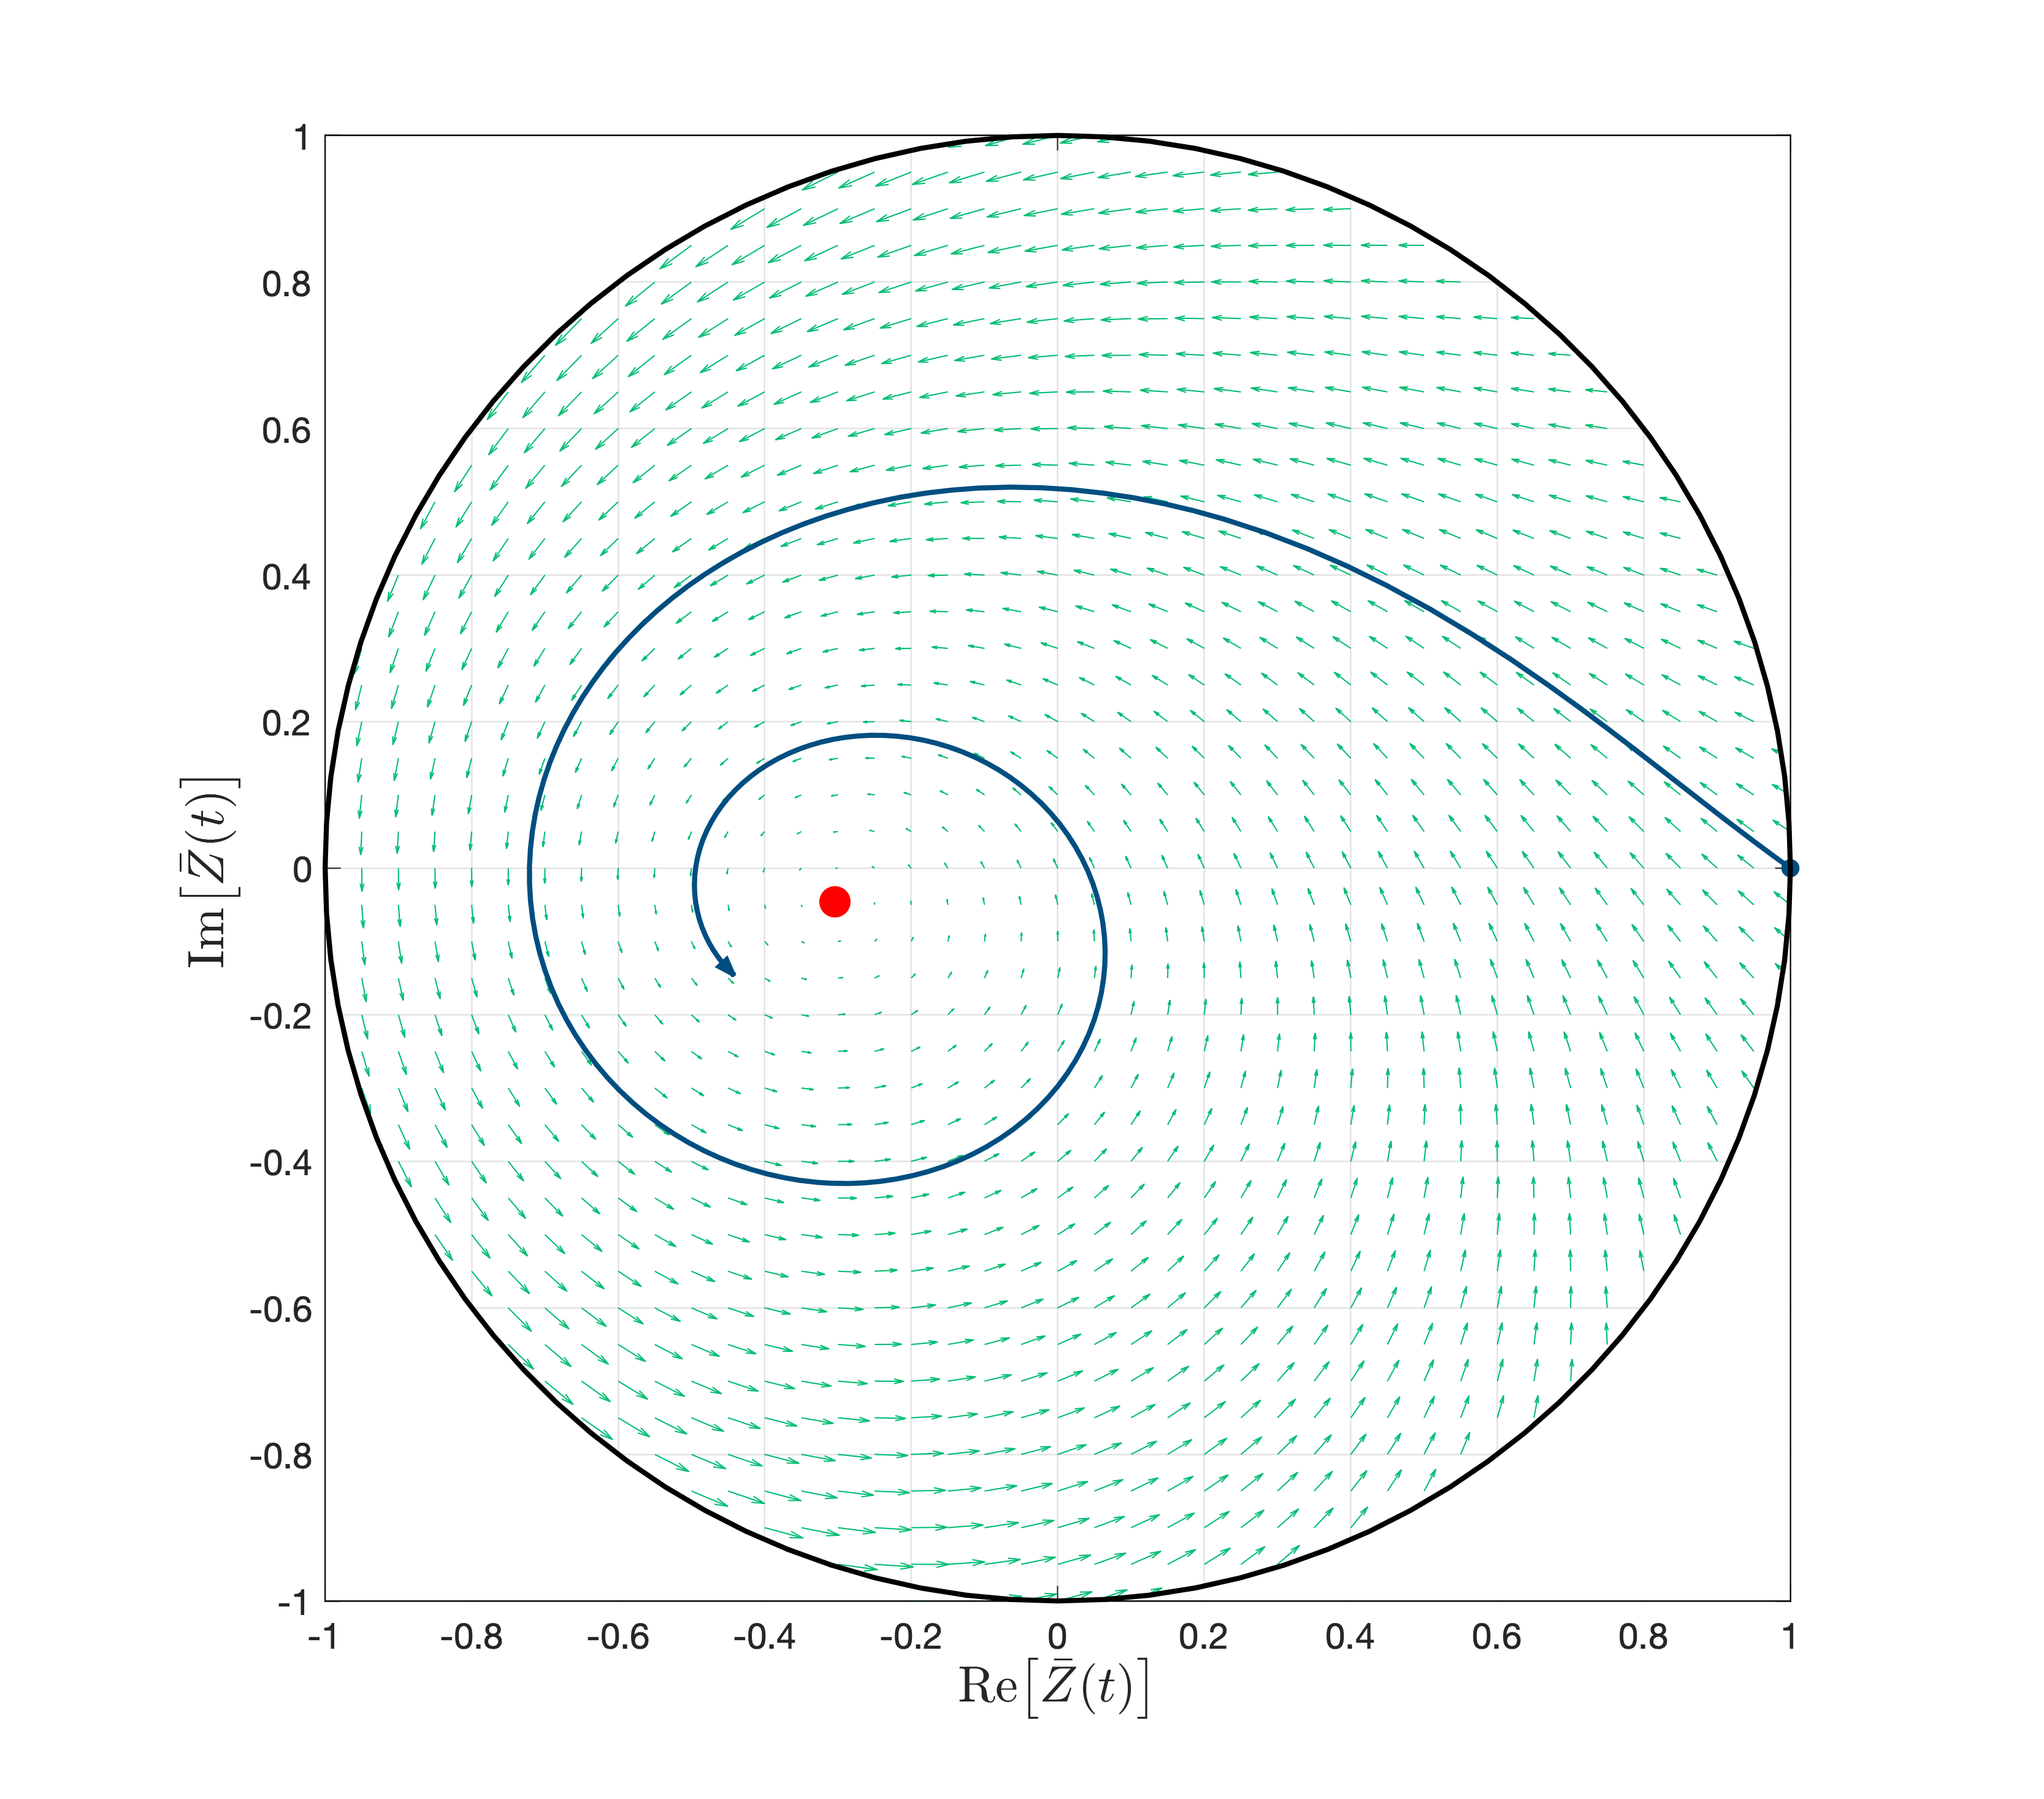
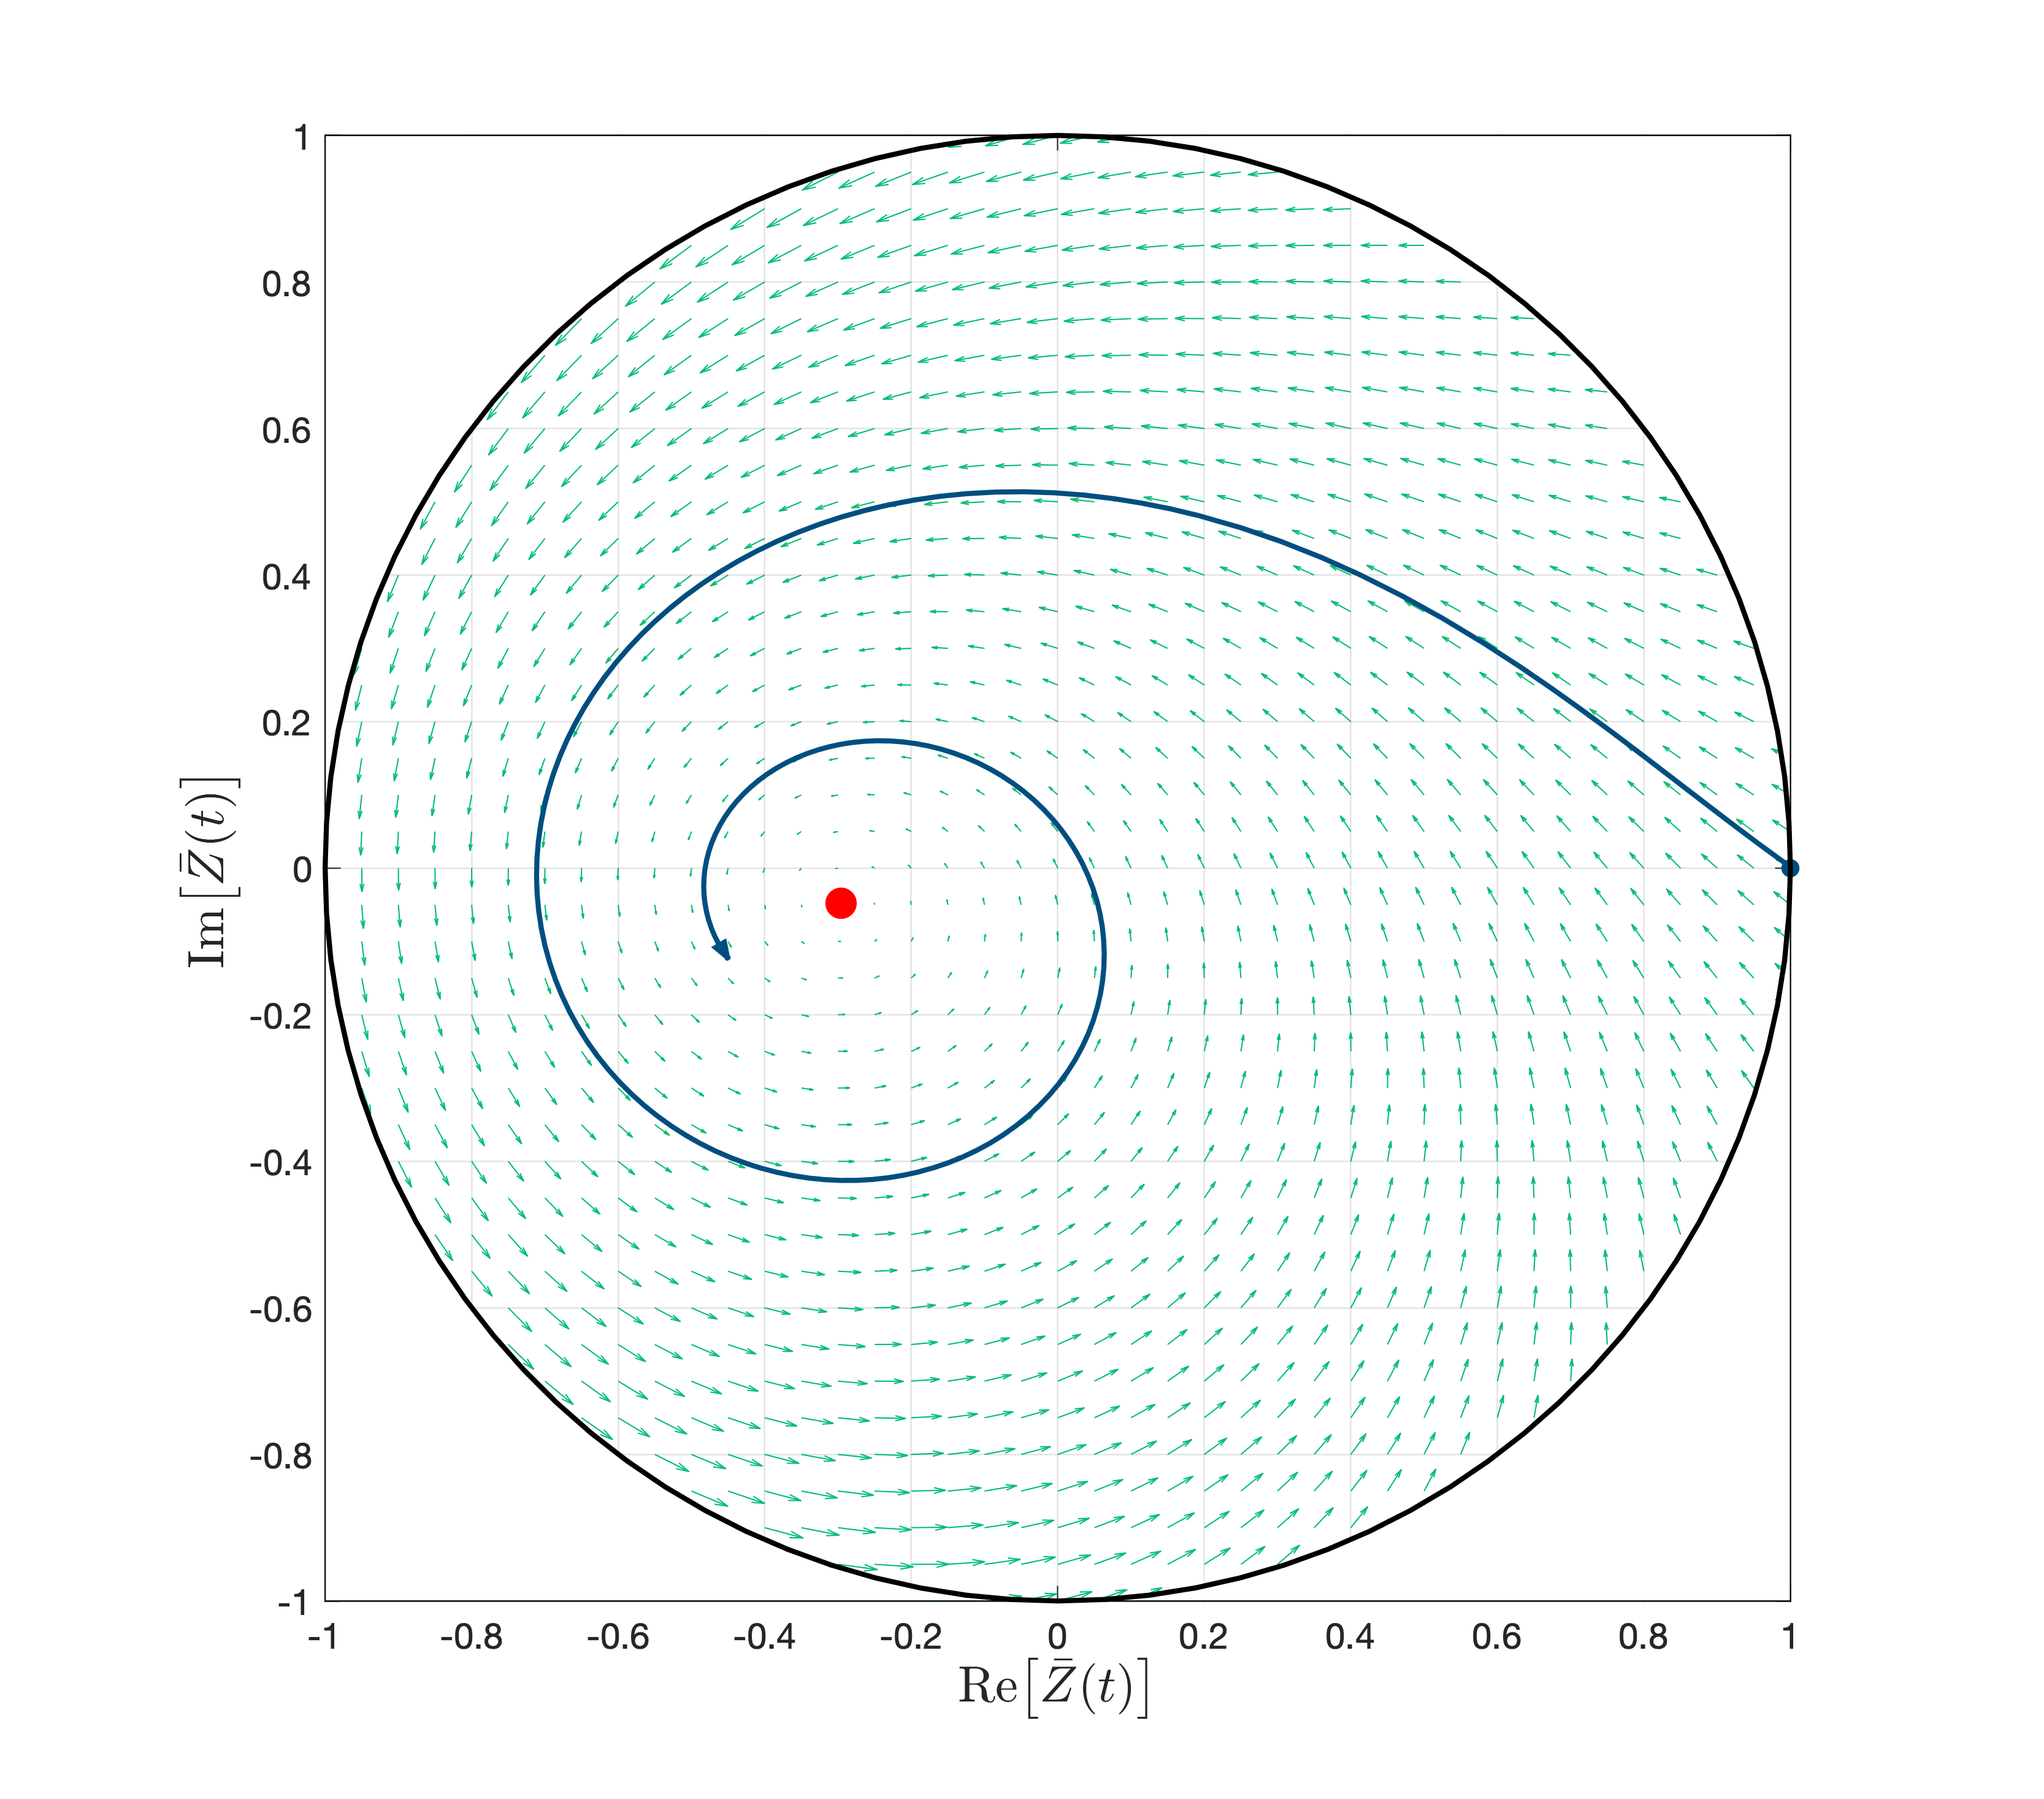
all phase space plots are ready

diff --git a/Mean Field Reductions/PhaseSpace.m b/Mean Field Reductions/PhaseSpace.m
@@ -47,7 +47,7 @@ in(1, m-l:m+l) = 1; in(end, m-l:m+l) = 1; in(m-l:m+l, 1) = 1; in(m-l:m+l, end) =
 % X1start = reshape(X1(in), 5, 5); Y1start = reshape(Y1(in), 5, 5);
 
 %% Theta neurons parameters:
-pars.N = 1000;
+pars.N = 5000;
 pars.a_n = 0.666666666666666666667;
 seed = 2; rng(seed);
 
@@ -274,7 +274,7 @@ hold off; set(gcf,'color','w'); set(gca,'FontSize',14); xlim([-1,1]); ylim([-1,1
 xlabel('Re$\left[ \bar{Z}(t)\right]$','Interpreter','latex', 'FontSize', 20)
 ylabel('Im$\left[ \bar{Z}(t)\right]$','Interpreter','latex', 'FontSize', 20)
 print(f_OARPSR, '../Figures/MFOARPSR_random.png', '-dpng', '-r300')
-% close(f_OARPSR)
+close(f_OARPSR)
 
 %% 5. OA random phase space: PSS
 pars.eta0 = 0.5; pars.delta = 0.7; pars.K = 2;
@@ -334,14 +334,14 @@ drawOAvectors(X + 1i*Y, in, p, cm(2,:));
 col = [0.4060 0.7040 0.1280] - 0.1;
 startx = [0, -0.8, -0.6, 0, 0]; starty = [-0.4, 0.2, 0.4, -1, -0.8];
 tlengths = [1.6, 0.5, 0.65, 2.6, 2.15];
-bw = -0.5;
-for i = 2:length(startx)-1
+
+for i = 1:length(startx)-1
     OAIC = ones(p.Mk,1)*(startx(i) + starty(i)*1i);
-    [~, ZOA] = OA_simulatenetwork(0, tlengths(i), OAIC, p, odeoptions);
+    [~, ZOA] = OA_simulatenetwork(0, tlengths(i), OAIC, p);
 
     scatter(startx(i), starty(i), 50, col, 'filled', 'o', 'LineWidth',2);% 'color', col);
 
-    Zplot = plot(real(ZOA), imag(ZOA), 'LineWidth', 2, 'color', col);
+    plot(real(ZOA), imag(ZOA), 'LineWidth', 2, 'color', col);
     endline = ZOA(end-3) - ZOA(end);
     endpoint = ZOA(end) + 0.02*endline/abs(endline);
     plot_arrow(real(endpoint), imag(endpoint), real(ZOA(end)), imag(ZOA(end)),'linewidth', 2, ...
@@ -349,15 +349,14 @@ for i = 2:length(startx)-1
 end
 
 % Limit cycle:
-odeoptions = odeset('RelTol', 1.0e-6); 
-[T, ZOA] = OA_simulatenetwork(0, 100, ones(p.Mk,1)*(-0.73*1i), p, odeoptions);
-plot(real(ZOA), imag(ZOA), 'LineWidth', 2, 'color', col);
-% ZOA = flip(ZOA(round(numel(T)*0.9):end,:));
-% [~, pksloc] = findpeaks(abs(ZOA),'MinPeakDistance',100);
-% idx = pksloc(1):pksloc(3);
-% plot(real(ZOA(idx)), imag(ZOA(idx)), '-', 'LineWidth', 2, 'Color', col);
-% plot_arrow(real(ZOA(end)), imag(ZOA(end)), real(ZOA(end-2)), imag(ZOA(end-2)),'linewidth', 2, ...
-%     'color', col,'facecolor', col,'edgecolor', col, 'headwidth',0.7,'headheight',3);
+[T, ZOA] = OA_simulatenetwork(0, 100, ones(p.Mk,1)*(-0.73*1i), p);
+% plot(real(ZOA), imag(ZOA), 'LineWidth', 2, 'color', col);
+ZOA = flip(ZOA(round(numel(T)*0.9):end,:));
+[~, pksloc] = findpeaks(abs(ZOA),'MinPeakDistance',100);
+idx = pksloc(1):pksloc(3);
+plot(real(ZOA(idx)), imag(ZOA(idx)), '-', 'LineWidth', 2, 'Color', col);
+plot_arrow(real(ZOA(end)), imag(ZOA(end)), real(ZOA(end-2)), imag(ZOA(end-2)),'linewidth', 2, ...
+    'color', col,'facecolor', col,'edgecolor', col, 'headwidth',0.7,'headheight',3);
 
 phasespaceplot();
 
@@ -486,12 +485,11 @@ for i = 1:length(startx)
 end
 
 % Limit cycle:
-odeoptions = odeset('RelTol', 1.0e-6); odeoptions.backwards = false;
 [T, ZOA] = OA_simulatenetwork(0, 100, ones(p.Mk,1)*(-0.2*1i), p, odeoptions);
 % Zplot = plot(real(ZOA), imag(ZOA), 'LineWidth', 2, 'color', col);
 ZOA = flip(ZOA(round(numel(T)*0.9):end,:));
 [~, pksloc] = findpeaks(abs(ZOA),'MinPeakDistance',100);
-idx = pksloc(1):pksloc(2);
+idx = pksloc(1):pksloc(3);
 plot(real(ZOA(idx)), imag(ZOA(idx)), '-', 'LineWidth', 2, 'Color', col);
 plot_arrow(real(ZOA(end)), imag(ZOA(end)), real(ZOA(end-2)), imag(ZOA(end-2)),'linewidth', 2, ...
     'color', col,'facecolor', col,'edgecolor', col, 'headwidth',0.7,'headheight',3);

diff --git a/Tests/OAtest.m b/Tests/OAtest.m
@@ -25,16 +25,17 @@ IC = - pi/2 * ones(pars.N, 1);
 %% Testing initial conditions:
 oapars = prepareOAparameters(make_lognormparameters(pars, 3, 1, 500));
 
-OAIC = zeros(1,oapars.l);
-for i = 1:oapars.l
+OAIC = zeros(1,oapars.Mk);
+for i = 1:oapars.Mk
     OAIC(i) = sum(exp(1i*IC(oapars.degrees_i == oapars.k(i)))) / (oapars.P(oapars.k(i))+1.0e-24);
 end
 ZOA = OAIC*oapars.P(oapars.k)/oapars.N
 
 %% Testing the OA approach:
-oapars = make_lognormparameters(pars, 3, 1, 500);
+oapars = make_scalefreeparameters(pars, 3, 1, 500);
 
 figure; hold on
+%%
 
 % tic;
 [tfull, thetasfull] = DOPRI_simulatenetwork(tnow,tend,IC,h,oapars);
@@ -42,6 +43,7 @@ zfull = orderparameter(thetasfull);
 plot(tfull, abs(zfull), 'b', 'LineWidth', 2)
 % toc;
 
+%%
 tic;
 % Old version:
 oapars = prepareOAparameters(oapars);
@@ -50,12 +52,12 @@ plot(TOA, abs(ZOA), 'r', 'LineWidth', 2)
 toc;
 
 %%
-% tic;
-% % New version: a simulation per (k_in, k_out)
-% sfpars = prepareOAparameters2(make_scalefreeparameters(pars, 2.1));
-% [TOA, ZOA] = OA_simulatenetwork2(tnow, 4, IC, sfpars);
-% plot(TOA, abs(ZOA), 'r')
-% toc;
+tic;
+% New version: a simulation per (k_in, k_out)
+sfpars = prepareOAparameters2(make_scalefreeparameters(pars, 2.1));
+[TOA, ZOA] = OA_simulatenetwork2(tnow, tend, IC, sfpars);
+plot(TOA, abs(ZOA), 'r')
+toc;
 
 
 %% Functions
@@ -63,17 +65,17 @@ function p = prepareOAparameters2(p)
 %     [d_i, d_o] = meshgrid(unique(p.degrees_i), unique(p.degrees_o));
 %     p.k = [reshape(d_i, numel(d_i), 1), reshape(d_o, numel(d_o), 1)];
     p.k = unique([p.degrees_i, p.degrees_o], 'rows');
-    p.l = numel(p.k)/2
+    p.Mk = numel(p.k)/2
 %     p.P = @(x) p.P(x)*sum(p.P(p.k(:,1)))/p.N;
     
 %     p.k = unique(p.degrees_i);
-%     p.l = numel(p.k);
-%     pkperm = p.k(randperm(p.l));
-    p.OA = zeros(p.l, p.l);
-    for i = 1:p.l
-        a = p.P(p.k(:,1)).*p.P(p.k(:,2)).*assortativity2(p.k, p.k(i,:).*ones(p.l,2), p.N*p.meandegree, 0)/p.meandegree*p.N;
+%     p.Mk = numel(p.k);
+%     pkperm = p.k(randperm(p.Mk));
+    p.OA = zeros(p.Mk, p.Mk);
+    for i = 1:p.Mk
+        a = p.P(p.k(:,1)).*p.P(p.k(:,2)).*assortativity2(p.k, p.k(i,:).*ones(p.Mk,2), p.N*p.meandegree, 0)/p.meandegree*p.N;
         p.OA(i,:) = a;
-%         ks = p.k(i,1)*ones(p.l,1);
+%         ks = p.k(i,1)*ones(p.Mk,1);
 %         p.OA(i, :) = p.P(p.k(:,1)).*assortativity(p.k(:,1), p.k(:,1), ks, ks, p.N, p.meandegree, 0)/p.meandegree;
     end
 end
@@ -86,13 +88,13 @@ function [TOA, ZOA, b] = OA_simulatenetwork2(tnow, tend, IC, p, odeoptions)
         
     Ps = p.P(p.k(:,1)) .* p.P(p.k(:,2));
     if numel(IC) > 1
-        OAIC = zeros(p.l,1);
-        for i = 1:p.l
+        OAIC = zeros(p.Mk,1);
+        for i = 1:p.Mk
             idx = (p.degrees_i == p.k(i, 1) & p.degrees_o == p.k(i, 2));
             OAIC(i) = sum(exp(1i*IC(idx)) / Ps(i))*p.N;
         end
     elseif numel(IC) == 1
-        OAIC = IC*ones(p.l,1);
+        OAIC = IC*ones(p.Mk,1);
     else
         error('IC might be wrong?')
     end

diff --git a/Functions/find_ICs.m b/Functions/find_ICs.m
@@ -1,9 +1,22 @@
 function thetas = find_ICs(sourceIC, targetIC, normalisation)
+    function f = fun(x)
+        R = targetIC
+        f = norm(targetIC - exp(1i*theta)*normalisation);
+    end
+    
+    function [c,ceq] = nonlcon(x)
+        c = x(1)^2 + x(2)^2 - 1;
+        ceq = [];
+    end
+
     opts = optimset('Display','off', 'Algorithm', 'levenberg-marquardt', 'MaxIter', 5);
     if nargin < 3 || numel(normalisation) == 1
         thetas = fsolve(@(theta) targetIC - orderparameter(theta), sourceIC, opts);
     else
-        thetas = fsolve(@(theta) targetIC - exp(1i*theta)*normalisation, sourceIC, opts);
+%         thetas = fsolve(@(theta) targetIC - exp(1i*theta)*normalisation, sourceIC, opts);
+        A = []; b = []; Aeq = []; beq = []; ub = -ones(size(sourceIC)); lb = -ub;
+        fun = @(theta) norm(real(targetIC) - exp(1i*theta(1))*normalisation);
+        thetas = fmincon(fun,sourceIC,A,b,Aeq,beq,lb,ub);
         thetas = exp(1i*thetas);
     end
 end

diff --git a/Functions/make_randomparameters.m b/Functions/make_randomparameters.m
@@ -11,7 +11,7 @@ function randompars = make_randomparameters(pars, netp)
     randompars.meandegree = netp*(pars.N - 1);
     
     stddev = sqrt(randompars.meandegree);
-    base = round(randompars.meandegree + [-1.966*stddev:1.966*stddev]);
+    base = round(randompars.meandegree + -1.966*stddev:1.966*stddev);
     
     idx = randperm(pars.N); n = numel(base);
     randompars.degrees_i = zeros(pars.N,1);
